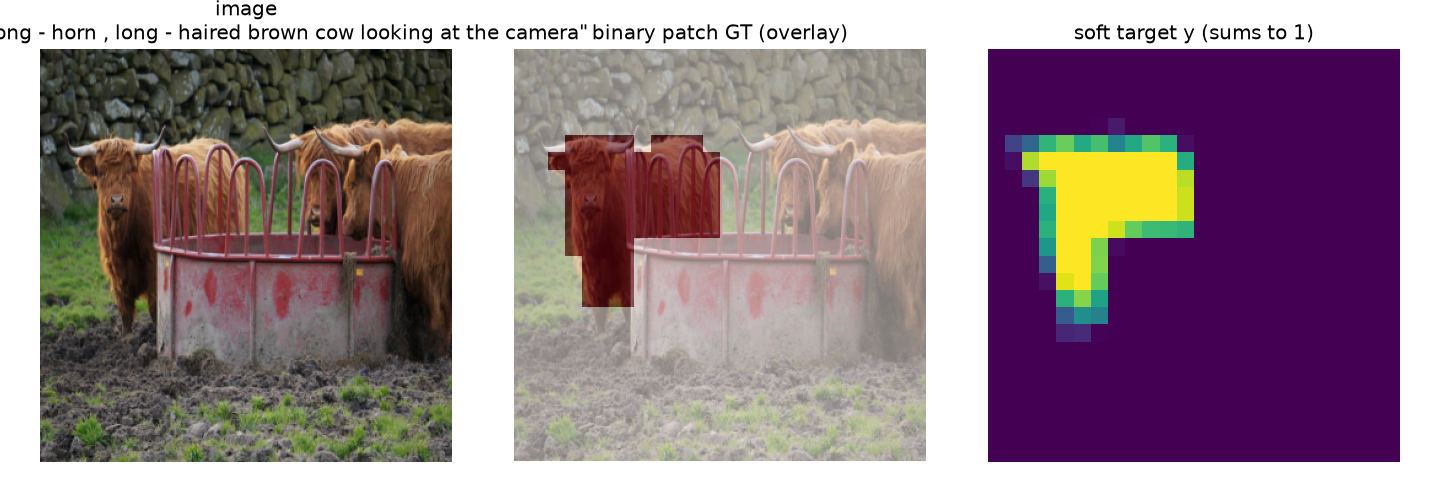
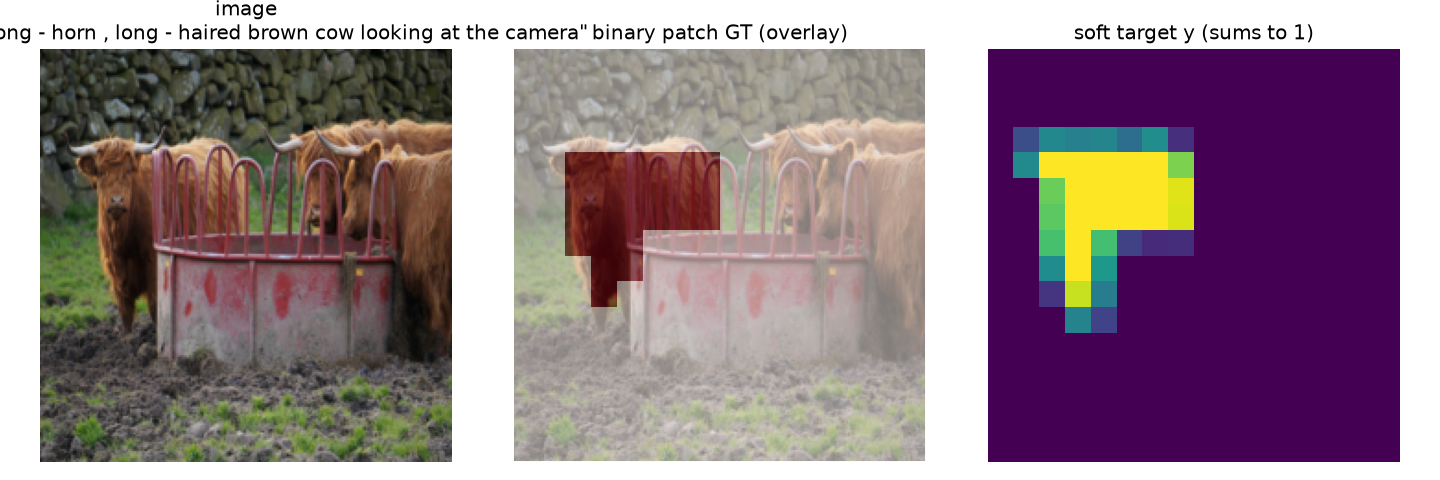
results after running

Changed region(s): [[0.6875, 0.25, 0.8438, 0.7188], [0.4062, 0.4688, 0.5, 0.6562], [0.375, 0.2812, 0.5, 0.375]]

diff --git a/papers/LLVM/results/results.md b/papers/LLVM/results/results.md
@@ -1,0 +1,39 @@
+# SteerViT small-scale reproduction -- results
+Trainable params: 15,356,167 | train images: 4500 | val images: 400
+
+Run config: 224px input -> 16x16 = 256 patch grid | 3000 steps | batch 12 | device mps | autocast torch.bfloat16
+
+> **Deviation from spec:** the spec calls for 336px -> 24x24 = 576 patches; this run used 224px -> 16x16 = 256 patches for speed. Localization metrics are correspondingly coarser (each patch covers a larger image area) and are NOT directly comparable to the paper's numbers. The mechanism checks -- especially wrong-prompt collapse -- are unaffected.
+
+> **Note:** 3000 training steps, below the spec's 20-50k range, per the spec's guidance to stop once steering emerges/plateaus.
+
+## 1-3. Baseline / Steerability / Wrong-prompt sanity check
+| condition | patch-grid IoU | PR-AUC |
+|---|---|---|
+| baseline (frozen, no text) | 0.1151 | 0.2093 |
+| steerability (correct prompt) | 0.3001 | 0.5135 |
+| wrong prompt (mismatched) | 0.2649 | 0.4566 |
+
+collapse_ratio = **0.810** (FAIL -- looks like memorization)
+
+## 4. Gate (omega) sweep
+| omega | IoU | PR-AUC | CLS linear-probe acc |
+|---|---|---|---|
+| 0.00 | 0.1151 | 0.2093 | 0.5208 |
+| 0.25 | 0.1494 | 0.2660 | 0.6375 |
+| 0.50 | 0.1849 | 0.3292 | 0.6750 |
+| 0.75 | 0.2653 | 0.4565 | 0.7250 |
+| 1.00 | 0.3001 | 0.5135 | 0.6208 |
+
+omega=0 verified to reproduce frozen DINOv2 exactly (see sanity check above).
+
+## Visualizations
+![sample](sample_visualization.png)
+
+![overfit curve](overfit_curve.png)
+
+![training curve](training_curve.png)
+
+![gate sweep](gate_sweep.png)
+
+![correct vs wrong prompt heatmaps](heatmap_comparison.png)
